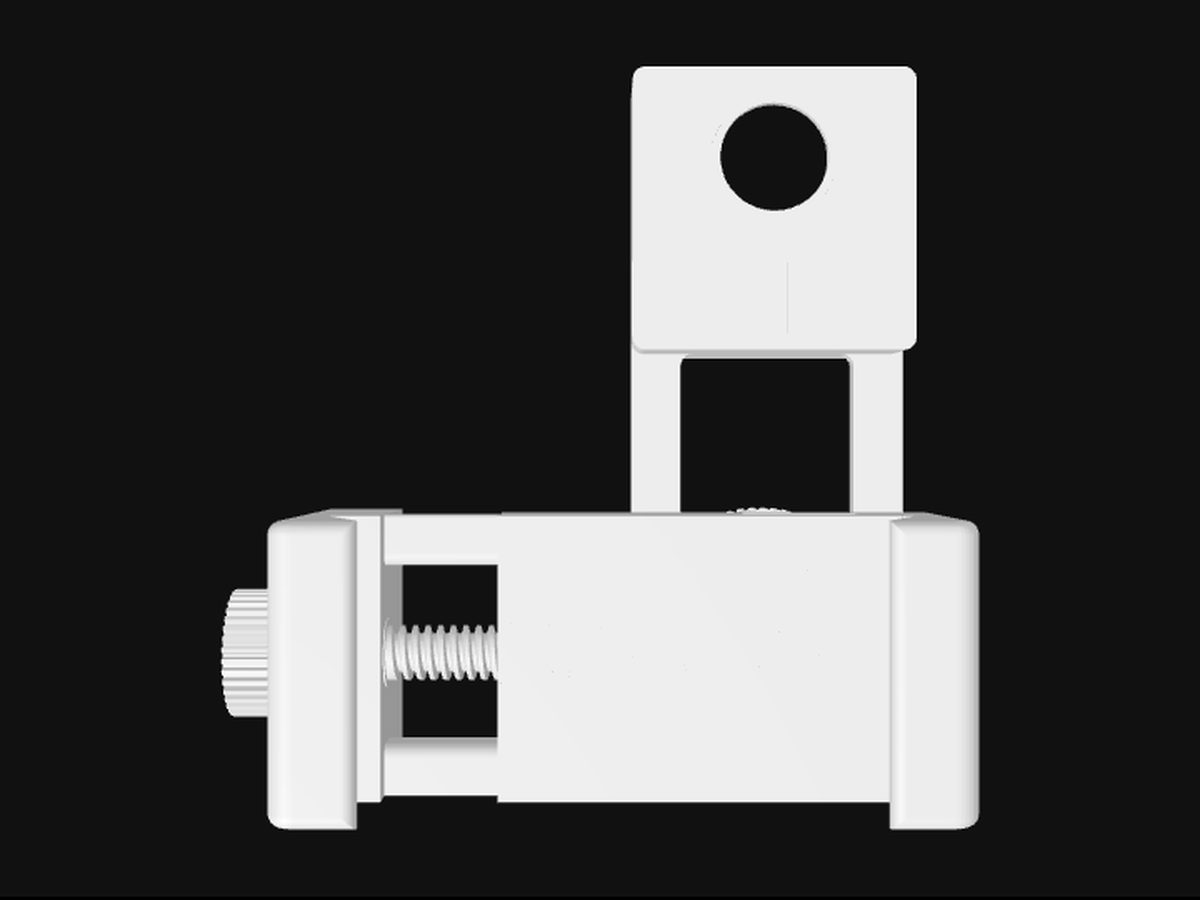
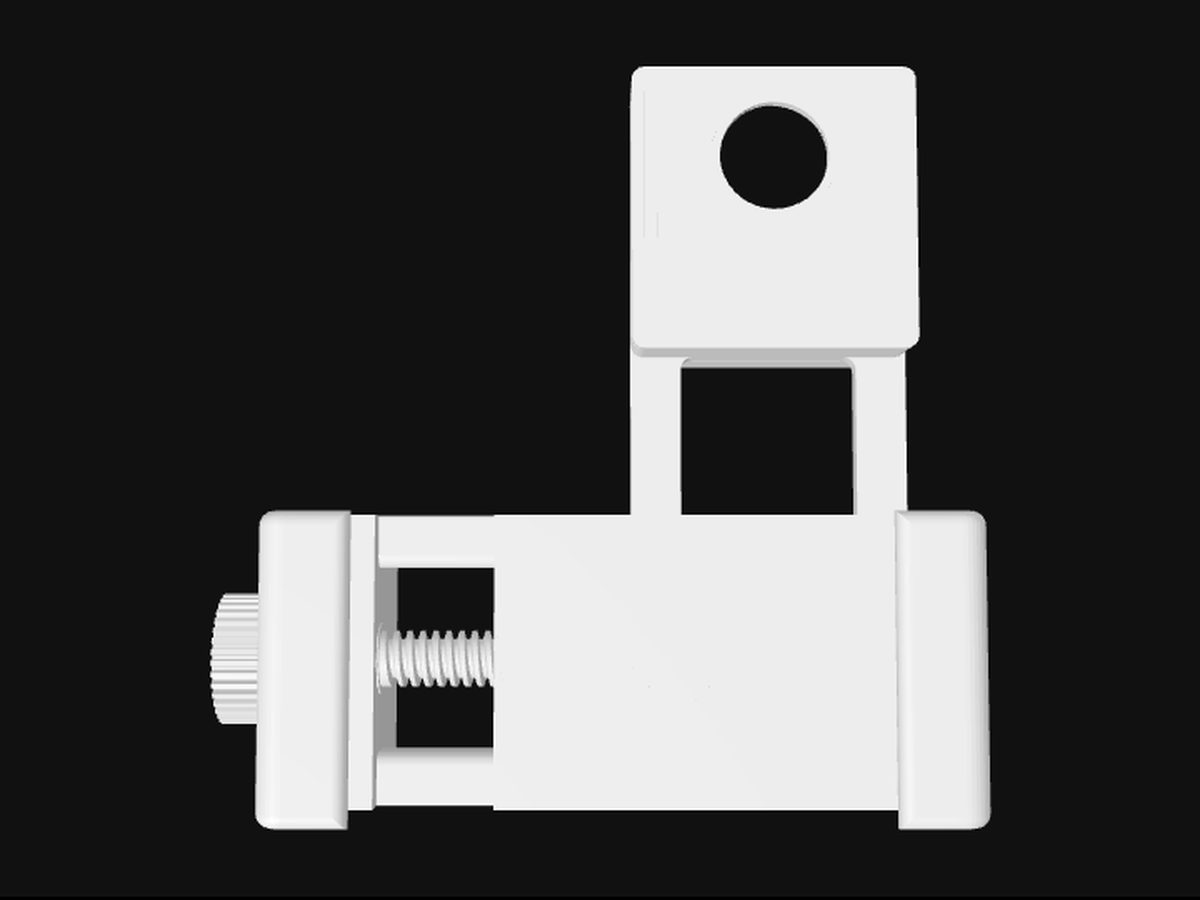
Tilt VectorCam 2 overhead view back ~4 degrees
Claude-Session: https://claude.ai/code/session_018HqdxKVMnZJugJVamVY5ug

diff --git a/index.html b/index.html
@@ -157,7 +157,7 @@ footer{display:flex;justify-content:space-between;gap:12px;flex-wrap:wrap;border
     <div class="gallery">
       <figure>
         <div class="frame">
-          <div class="model" data-stl="models/VectorCam2-assembly.stl" data-az="1.46" data-el="1.5707" data-rotate="false" role="img" aria-label="3D model of the assembled VectorCam 2, seen from above">
+          <div class="model" data-stl="models/VectorCam2-assembly.stl" data-az="1.46" data-el="1.50" data-rotate="false" role="img" aria-label="3D model of the assembled VectorCam 2, seen from above">
             <img src="images/vectorcam2-assembly.jpg" alt="" width="1200" height="900" loading="lazy">
           </div>
         </div>
